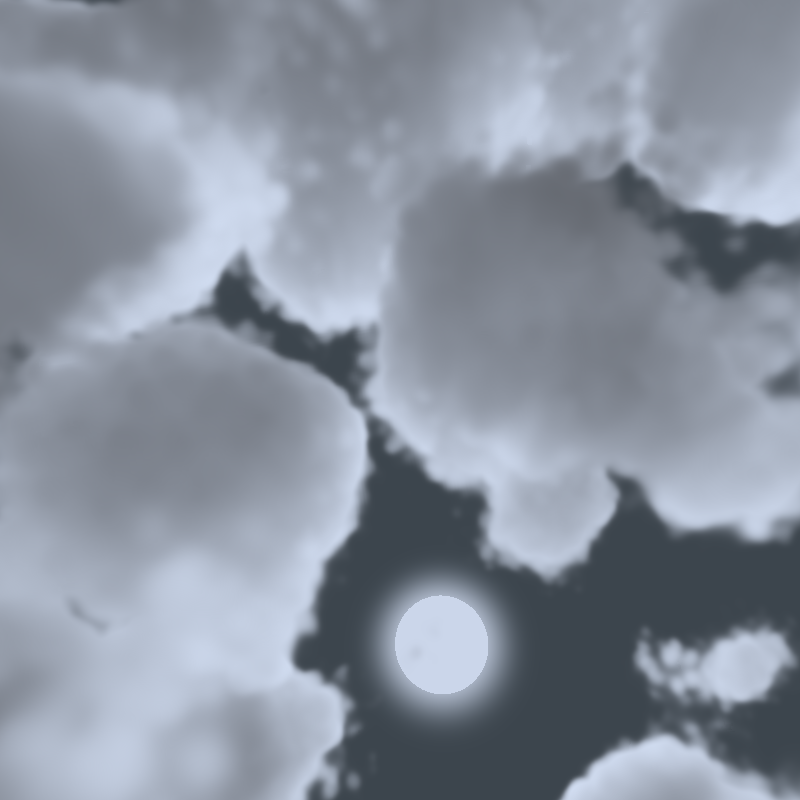
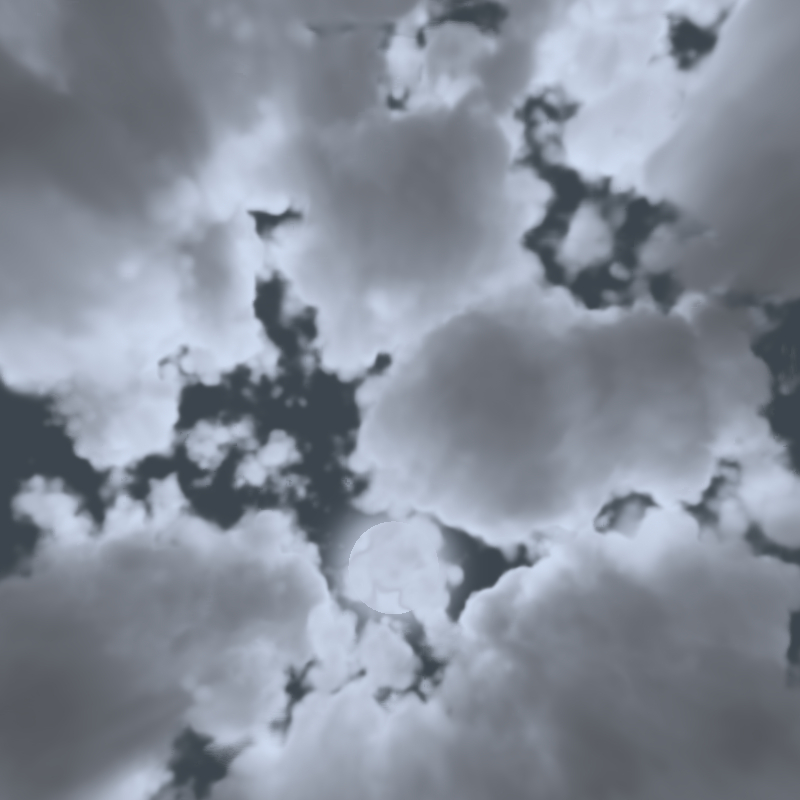
improved sampling

diff --git a/src/compute_kernel.h b/src/compute_kernel.h
@@ -34,13 +34,13 @@ private:
     const int size = 320;
     const int nodes[ITERATIONS][CHANNELS] = {
         {1, 3,  6,  32},
-        {2, 3,  8, 32},
-        {2, 4, 16, 64}
+        {2, 10,  30, 128},
+        {2, 40, 60, 200}
     };
     const cl_float persistence[ITERATIONS][CHANNELS] = {
         {15.0f, 15.0f, 15.0f, 15.0f},
         {10.0f, 10.0f, 10.0f, 10.0f},
-        {10.0f, 10.0f, 10.0f, 10.0f}
+        {5.0f, 5.0f, 5.0f, 5.0f}
     };
     const cl_float blending[ITERATIONS][CHANNELS] = {
         {1.0f, 1.0f, 1.0f, 1.0f},
